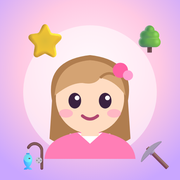
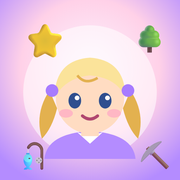
v1.0: Aus Idle Marie wird Hannah Idle – nur Hannah und Marie, neues App-Bild und neuer Startbildschirm

diff --git a/js/symbole.js b/js/symbole.js
@@ -1,7 +1,7 @@
 "use strict";
 // =====================================================
 //  GEZEICHNETE SYMBOLE für Gegenstände (Holz, Fisch, Erz, Barren, Essen)
-//  und die vier Figuren (Marie, Hannah, Stefan, Jenny).
+//  und die beiden Figuren (Hannah und Marie).
 //  Alles als kleine SVG-Zeichnung, damit die Farben pro Material passen.
 // =====================================================
 
@@ -74,15 +74,6 @@ function schultern(farbe, kragen = "#fff") {
 }
 
 const FIGUREN = [
-  { id: "marie", kleid: "#ff7eb6", kragen: "#fff", name: "Marie", svg: `
-    <path d="M20 54Q14 22 50 18Q86 22 80 54L82 84Q70 92 66 80L34 80Q30 92 18 84Z" fill="#b07d4f"/>
-    %SCHULTERN%
-    <rect x="43" y="68" width="14" height="14" fill="${HAUT}"/>
-    <ellipse cx="50" cy="52" rx="27" ry="28" fill="${HAUT}"/>
-    <path d="M22 50Q24 24 50 22Q76 24 78 50Q70 38 58 36Q54 42 44 40Q34 40 22 50Z" fill="#d4a373"/>
-    <path d="M58 36Q64 30 70 34" stroke="#b07d4f" stroke-width="2" fill="none"/>
-    <circle cx="74" cy="30" r="6" fill="#ff5fa2"/><circle cx="80" cy="34" r="4" fill="#ff9fd0"/>
-    ${gesicht()}` },
   { id: "hannah", kleid: "#b48cff", kragen: "#fff", name: "Hannah", svg: `
     <path d="M18 46Q6 64 12 84Q20 76 24 60Z M82 46Q94 64 88 84Q80 76 76 60Z" fill="#e3b14f"/>
     %SCHULTERN%
@@ -92,26 +83,15 @@ const FIGUREN = [
     <path d="M40 34Q46 42 56 36" stroke="#e3b14f" stroke-width="2" fill="none"/>
     <circle cx="20" cy="46" r="5" fill="#a77bff"/><circle cx="80" cy="46" r="5" fill="#a77bff"/>
     ${gesicht({ augen: "#2f4f8f" })}` },
-  { id: "stefan", kleid: "#5fb7a8", kragen: "#e8f6f2", name: "Stefan", svg: `
-    %SCHULTERN%
-    <rect x="43" y="68" width="14" height="14" fill="${HAUT}"/>
-    <ellipse cx="24" cy="56" rx="5" ry="7" fill="#f6c9ab"/><ellipse cx="76" cy="56" rx="5" ry="7" fill="#f6c9ab"/>
-    <ellipse cx="50" cy="52" rx="27" ry="29" fill="${HAUT}"/>
-    <path d="M36 30Q44 26 50 30" stroke="#fff" stroke-width="3" stroke-opacity=".6" fill="none" stroke-linecap="round"/>
-    <path d="M26 58Q28 84 50 86Q72 84 74 58Q70 70 62 70Q56 74 50 72Q44 74 38 70Q30 70 26 58Z" fill="#5a3a24"/>
-    <path d="M42 68Q50 64 58 68" stroke="#5a3a24" stroke-width="4" fill="none" stroke-linecap="round"/>
-    <path d="M32 44L44 42M56 42L68 44" stroke="#5a3a24" stroke-width="3" stroke-linecap="round"/>
-    ${gesicht({ augen: "#3b2a20", brille: true }).replace(/<path d="M44 66Q50 71 56 66"[^>]*\/>/, '<path d="M45 72Q50 75 55 72" stroke="#ffd0d8" stroke-width="2.4" fill="none" stroke-linecap="round"/>')}` },
-  { id: "jenny", kleid: "#5fa8d9", kragen: "#fff", name: "Jenny", svg: `
-    <path d="M70 60Q86 70 80 96" stroke="#5a3a24" stroke-width="11" fill="none" stroke-linecap="round"/>
-    <path d="M72 66L82 70M74 76L84 78M76 86L84 88" stroke="#3a2416" stroke-width="2"/>
+  { id: "marie", kleid: "#ff7eb6", kragen: "#fff", name: "Marie", svg: `
+    <path d="M20 54Q14 22 50 18Q86 22 80 54L82 84Q70 92 66 80L34 80Q30 92 18 84Z" fill="#b07d4f"/>
     %SCHULTERN%
     <rect x="43" y="68" width="14" height="14" fill="${HAUT}"/>
     <ellipse cx="50" cy="52" rx="27" ry="28" fill="${HAUT}"/>
-    <path d="M22 54Q20 20 50 20Q82 20 78 56Q74 34 60 32Q46 38 30 36Q24 44 22 54Z" fill="#5a3a24"/>
-    <path d="M60 32Q52 26 44 30" stroke="#3a2416" stroke-width="2" fill="none"/>
-    <circle cx="27" cy="70" r="2.6" fill="#ffd54f"/><circle cx="73" cy="70" r="2.6" fill="#ffd54f"/>
-    ${gesicht({ augen: "#3b2a20", brille: true })}` },
+    <path d="M22 50Q24 24 50 22Q76 24 78 50Q70 38 58 36Q54 42 44 40Q34 40 22 50Z" fill="#d4a373"/>
+    <path d="M58 36Q64 30 70 34" stroke="#b07d4f" stroke-width="2" fill="none"/>
+    <circle cx="74" cy="30" r="6" fill="#ff5fa2"/><circle cx="80" cy="34" r="4" fill="#ff9fd0"/>
+    ${gesicht()}` },
 ];
 
 // Figur zeichnen – mit Kleidung, Hut und Rahmen (siehe daten-kleiderschrank.js).

diff --git a/index.html b/index.html
@@ -3,13 +3,13 @@
 <head>
   <meta charset="UTF-8">
   <meta name="viewport" content="width=device-width, initial-scale=1, viewport-fit=cover">
-  <title>Idle Marie</title>
-  <meta name="description" content="Sammeln, kochen, schmieden, schnitzen – Idle Marie spielt weiter, auch wenn du weg bist.">
+  <title>Hannah Idle</title>
+  <meta name="description" content="Sammeln, kochen, schmieden, schnitzen – Hannah Idle spielt weiter, auch wenn du weg bist.">
   <meta name="theme-color" content="#ffe6f2">
   <meta name="color-scheme" content="only light">
   <meta name="apple-mobile-web-app-capable" content="yes">
   <meta name="mobile-web-app-capable" content="yes">
-  <meta name="apple-mobile-web-app-title" content="Idle Marie">
+  <meta name="apple-mobile-web-app-title" content="Hannah Idle">
   <meta name="apple-mobile-web-app-status-bar-style" content="default">
   <link rel="manifest" href="manifest.webmanifest">
   <link rel="icon" type="image/png" sizes="192x192" href="icons/icon-192.png">
@@ -54,7 +54,7 @@
     <div class="splashHerzen"><i style="--x:8%;--d:0s;--s:1.1">🌳</i><i style="--x:22%;--d:1.4s;--s:0.8">💖</i><i style="--x:37%;--d:0.6s;--s:1.3">🎣</i><i style="--x:52%;--d:2.1s;--s:0.9">⭐</i><i style="--x:66%;--d:0.3s;--s:1.2">⛏</i><i style="--x:80%;--d:1.7s;--s:1">💖</i><i style="--x:92%;--d:0.9s;--s:0.8">🍳</i></div>
     <div class="splashInhalt">
       <div class="splashSymbol"><img src="icons/icon-512.png" alt=""><span class="splashKrone">⭐</span></div>
-      <div class="splashMarie">Marie</div>
+      <div class="splashMarie">Hannah</div>
       <div class="splashClicker">Idle</div>
       <div class="splashBalken"><div><span>💖</span></div></div>
       <div class="splashStatus" id="splashStatus">Rucksack wird gepackt …</div>
@@ -71,7 +71,7 @@
       <button id="figurKnopf" class="figurKnopf" type="button" aria-label="Figur"></button>
       <span id="begleiterKopf" class="begleiterKopf" hidden></span>
       <div class="logoBlock">
-        <div class="logo"><span>Idle</span> <b>Marie</b></div>
+        <div class="logo"><b>Hannah</b> <span>Idle</span></div>
         <button id="version" class="version" type="button"></button>
       </div>
       <div class="muenzAnzeige" id="muenzAnzeige"></div>
@@ -203,7 +203,7 @@
   <!-- Figur wählen (erster Start) -->
   <div id="figurOverlay" class="overlay" hidden>
     <div class="fenster">
-      <h2>💖 Willkommen bei Idle Marie!</h2>
+      <h2>💖 Willkommen bei Hannah Idle!</h2>
       <p>Mit wem möchtest du spielen?</p>
       <div id="figurAuswahlStart" class="figurAuswahl"></div>
       <p class="hinweis">Du kannst die Figur später unter „Ich“ wechseln.</p>
@@ -316,7 +316,7 @@
   <!-- Nur Hochformat -->
   <div id="drehen" aria-hidden="true">
     <div class="drehenHandy">📱</div>
-    <p>Bitte dreh dein Gerät –<br>Idle Marie spielt man im Hochformat.</p>
+    <p>Bitte dreh dein Gerät –<br>Hannah Idle spielt man im Hochformat.</p>
   </div>
 </body>
 </html>

diff --git a/js/sicherung.js b/js/sicherung.js
@@ -42,7 +42,7 @@ async function leseSicherung(code) {
     } else throw new Error("form");
   } catch (e) {
     if (e.message === "alt") throw new Error("Dieses Gerät kann den Code leider nicht lesen. Bitte ein neueres Gerät benutzen.");
-    throw new Error("Das ist kein gültiger Idle-Marie-Code. Bitte ganz und genau einfügen.");
+    throw new Error("Das ist kein gültiger Hannah-Idle-Code. Bitte ganz und genau einfügen.");
   }
   let stand;
   try { stand = JSON.parse(json); } catch (e) { throw new Error("Der Code ist beschädigt."); }
@@ -92,11 +92,11 @@ function richteSicherungEin() {
     ton.klick();
     const code = await sicherungsCode();
     const d = new Date();
-    const name = `idle-marie-${d.getFullYear()}-${String(d.getMonth() + 1).padStart(2, "0")}-${String(d.getDate()).padStart(2, "0")}.txt`;
+    const name = `hannah-idle-${d.getFullYear()}-${String(d.getMonth() + 1).padStart(2, "0")}-${String(d.getDate()).padStart(2, "0")}.txt`;
     const datei = new File([code], name, { type: "text/plain" });
     // Auf Handys: über "Teilen" speichern (z.B. in Dateien oder als Nachricht); sonst normal herunterladen
     if (navigator.canShare?.({ files: [datei] })) {
-      try { await navigator.share({ files: [datei], title: "Idle Marie – Spielstand" }); return; } catch (e) { if (e.name === "AbortError") return; }
+      try { await navigator.share({ files: [datei], title: "Hannah Idle – Spielstand" }); return; } catch (e) { if (e.name === "AbortError") return; }
     }
     const a = document.createElement("a");
     a.href = URL.createObjectURL(datei);

diff --git a/js/versionen.js b/js/versionen.js
@@ -5,6 +5,7 @@
 // =====================================================
 
 const VERSIONEN = [
+  { v: "1.0", datum: "2026-11-21", neu: ["Aus Idle Marie wird Hannah Idle – mit neuem App-Bild und Startbildschirm.", "Spielbar sind jetzt Hannah und Marie."] },
   { v: "0.9", datum: "2026-11-21", neu: ["🎟 Season-Pass: Jeden Monat ein neues Thema (wie in Marie Clicker) mit 30 Stufen.", "Täglich 3 und wöchentlich 3 Aufgaben bringen Season-Punkte – verpasste Tagesaufgaben bleiben eine Woche offen.", "Jede Season hat ein eigenes Monster, das sich deiner Stärke anpasst, ein Season-Haustier sowie Hut, Kleidung und Rahmen."] },
   { v: "0.8", datum: "2026-11-21", neu: ["👗 Kleiderschrank (unter „Ich“): 15 Hüte, 12 Kleidungen und 10 Rahmen für deine Figur – zum Kaufen oder als Belohnung für Aufträge.", "In der Bestenliste sieht man jetzt auch, wie die anderen angezogen sind."] },
   { v: "0.7", datum: "2026-11-21", neu: ["📜 Aufträge: Eine Kette von 88 Aufträgen führt dich Schritt für Schritt durchs ganze Spiel – bis zum Regenbogendrachen.", "Jeder Auftrag bringt eine Belohnung, und „Zeig mir wo“ bringt dich direkt an die richtige Stelle."] },

diff --git a/js/logik.js b/js/logik.js
@@ -9,7 +9,7 @@ const SPEICHER_SCHLUESSEL = "idleMarie-spielstand";
 function neuerSpielstand() {
   return {
     version: 1,
-    figur: null,                 // marie | hannah | stefan | jenny – wird beim ersten Start gewählt
+    figur: null,                 // hannah | marie – wird beim ersten Start gewählt
     muenzen: 0,
     xp: { herzen: KAMPF.herzenStartXp },   // fertigkeitId -> Erfahrung (Herzen beginnen auf Stufe 10)
     uebung: {},                  // taetigkeitId -> Übungs-Erfahrung
@@ -35,6 +35,7 @@ function laden() {
     const text = localStorage.getItem(SPEICHER_SCHLUESSEL);
     if (text) spiel = Object.assign(neuerSpielstand(), JSON.parse(text));
     if (!spiel.xp.herzen) spiel.xp.herzen = KAMPF.herzenStartXp;
+    if (spiel.figur && !FIGUREN.some(f => f.id === spiel.figur)) spiel.figur = null;   // Figur gibt es nicht mehr
   } catch (e) { /* kaputter oder gesperrter Speicher -> neues Spiel */ }
 }
 function speichern() {

diff --git a/css/style.css b/css/style.css
@@ -238,7 +238,7 @@ button:disabled { cursor: default; }
 .knopf.kaufen { width: auto; margin: 0; padding: 8px 12px; white-space: nowrap; font-size: 0.9rem; }
 
 /* ----- Ich ----- */
-.figurAuswahl { display: grid; grid-template-columns: repeat(4, minmax(0, 1fr)); gap: 8px; }
+.figurAuswahl { display: grid; grid-template-columns: repeat(2, minmax(0, 1fr)); gap: 12px; max-width: 280px; margin: 0 auto; }
 .figurKarte {
   display: flex; flex-direction: column; align-items: center; gap: 4px; padding: 6px 4px 8px;
   border: 3px solid #fff; border-radius: 18px; background: linear-gradient(160deg, #ffe0f0, #efe2ff);

diff --git a/js/version.js b/js/version.js
@@ -7,5 +7,5 @@
 //  APP_NEU: kurze Beschreibung, was neu ist. Steht im Fenster "Neue Version verfügbar".
 //  (Bitte nur normale Anführungszeichen "…" benutzen, keine im Text selbst.)
 // =====================================================
-const APP_VERSION = "0.9";
-const APP_NEU = "Neu: der Season-Pass! Jeden Monat ein neues Thema mit Aufgaben, Season-Monster, Season-Haustier und Kleidung.";
+const APP_VERSION = "1.0";
+const APP_NEU = "Aus Idle Marie wird Hannah Idle! Mit neuem Bild, neuem Namen und Hannah und Marie als Figuren.";

diff --git a/js/splash.js b/js/splash.js
@@ -11,7 +11,7 @@ const SPLASH = {
     "Die Axt wird geschärft …",
     "Würmer für die Angel werden gesucht …",
     "Die Bank wird aufgeschlossen …",
-    "Los geht's! 💖",
+    "Hannah ist bereit! 💖",
   ],
 };
 
